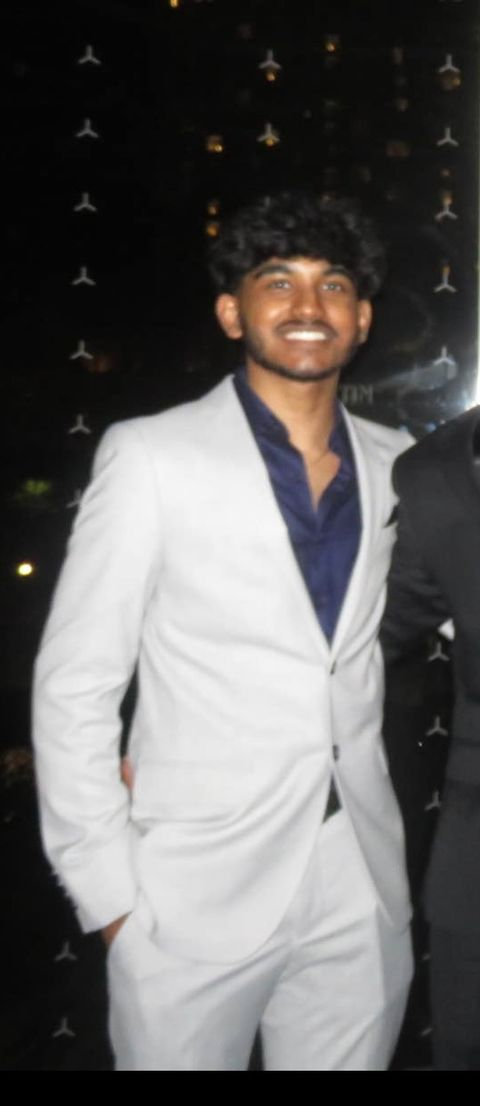
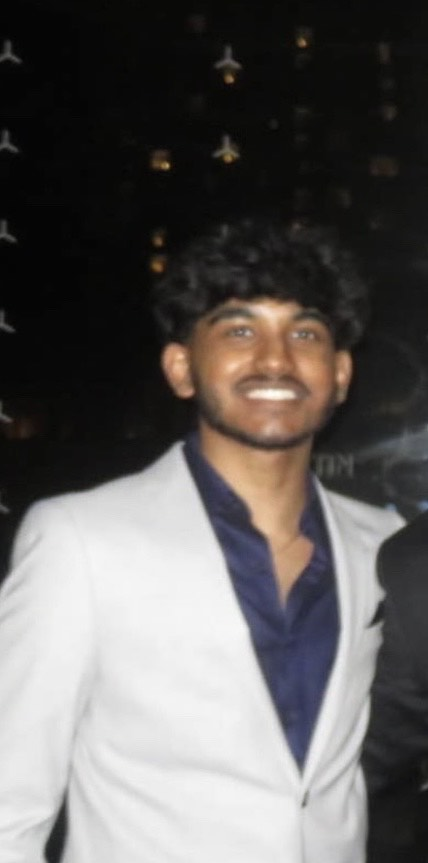
adjusted the size of pictures in team page

diff --git a/styles/team.css b/styles/team.css
@@ -6,8 +6,6 @@ body {
     box-sizing: border-box;
     user-select: none;
     color: black;
-
-    
 }
 
 /* Hero Section */
@@ -30,7 +28,6 @@ body {
     cursor: pointer;
     border: 1px solid #333;
     color: black;
-
 }
 
 /* Features Section */
@@ -41,7 +38,6 @@ body {
     background-color: #fff;
     border-bottom: 1px solid #ccc;
     color: black;
-
 }
 
 .feature-box, .plan, .team-member {
@@ -92,14 +88,13 @@ body {
     text-align: center;
     padding: 40px;
     background-color: #f9f9f9;
-    color: #333
+    color: #333;
 }
 
 .team-section h2 {
     font-size: 24px;
     margin-bottom: 30px;
     color: #333;
-
 }
 
 .team-container {
@@ -114,28 +109,31 @@ body {
 }
 
 .team-member {
-    width: 25%;
-    height: auto;
-    margin-bottom: 20px;
     width: 200px;
-    height: auto;
+    height: 280px; /* Fixed height for all team-member boxes */
+    margin: 10px;
+    padding: 10px;
+    box-sizing: border-box;
+    text-align: center;
 }
 
 .team-member .photo {
-    padding: 10px; /* Reduced padding to give more room */
+    width: 100%;
+    height: 200px; /* Fixed height for photo container */
     border-radius: 10px;
     margin-bottom: 10px;
     display: flex;
     justify-content: center;
     align-items: center;
     background-color: rgba(245, 222, 179, 0.8);
-
+    overflow: hidden;
 }
 
 .team-member .photo img {
-    width: 12rem; /* Adjust width as needed */
-    height: auto;
-    border-radius: 10px; /* Makes the image circular */
+    width: 100%;
+    height: 100%;
+    object-fit: cover; /* Ensures image fills container without distortion */
+    border-radius: 10px;
 }
 
 .team-section {
@@ -146,6 +144,5 @@ body {
     padding-top: 100px; /* Adjust padding to control height */
     padding-bottom: 20px;
     color: #333;
-    text-align: center; /* Center text if needed */
+    text-align: center;
 }
-
